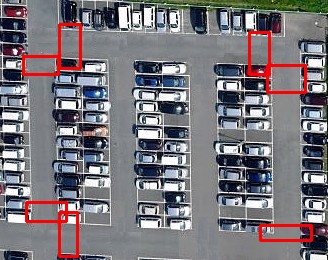
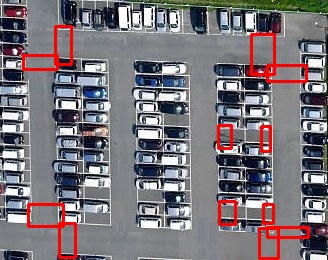
Added barriers for parking slots

diff --git a/core_lib/path_calculator.py b/core_lib/path_calculator.py
@@ -6,6 +6,20 @@ from parking import get_initial_coordinates_and_direction
 from core import get_config_value
 from core import save_config_value
 from core import Direction
+from drawing import draw_path
+
+def parking_slot_matcher(point):
+    if point[0] == 77:
+        if point[1] == 45:
+            return "p1"
+        else:
+            return "p3"
+    elif point[0] == 86:
+        if point[1] == 45:
+            return "p2"
+        else:
+            return "p4"
+    return None
 
 
 def adpat_configuration(config):
@@ -60,7 +74,7 @@ def get_neighbours(point, image, visited, config):
     return valid_neighbours
 
 
-def block_image(image, config):
+def block_image(image, config, slot_coords):
     """
     Fills with -1 the areas to be blocked. This is aimed to force the route 
     to follow a specific path. Receives the original image and returns a blocked one.
@@ -70,12 +84,18 @@ def block_image(image, config):
     Returns:
         np.array
     """
-    block = get_config_value("barriers")[config]
-    x_corner_1, y_corner_1 = block["corner_1"]
-    x_corner_2, y_corner_2 = block["corner_2"]
-    for i in range(y_corner_1, y_corner_2):
-        for j in range(x_corner_1, x_corner_2):
-            image[i][j] = -1
+    barriers = [config, "p1", "p2", "p3", "p4"]
+    special_slot = parking_slot_matcher(slot_coords)
+    if special_slot is not None:
+        barriers.remove(special_slot)
+    for barrier in barriers:
+        block = get_config_value("barriers")[barrier]
+        x_corner_1, y_corner_1 = block["corner_1"]
+        x_corner_2, y_corner_2 = block["corner_2"]
+        for i in range(y_corner_1, y_corner_2):
+            for j in range(x_corner_1, x_corner_2):
+                image[i][j] = -1
+
     return image
 
 def calculate_distances(initial_point, config):
@@ -93,7 +113,7 @@ def calculate_distances(initial_point, config):
     """
     # Get downsampled image.
     poles = get_parking_poles_structure()
-    poles = block_image(poles, config)
+    poles = block_image(poles, config, initial_point)
     # Create matrix of visited nodes.
     height = len(poles)
     width = len(poles[0])
@@ -191,7 +211,6 @@ def build_path():
 
     # Build matrix with distances
     distances = calculate_distances(parking_coords, config)
-    #write_csv(distances, "output.csv")
 
     # Create matrix of visited nodes.
     height = len(distances)
@@ -199,18 +218,57 @@ def build_path():
 
     visited = np.full((height, width), False)
     path = calculate_path((x_initial, y_initial), distances, config, visited)
+    write_csv(path, "output.csv")
+    draw_path(path)
     return path
 
 def test():
-    free_parking_spaces_scaled = get_config_value("free_parking_spaces_scaled")
-    quadrant = get_config_value("initial_quadrant")
-    direction = get_config_value("initial_direction")
-    for slot in free_parking_spaces_scaled:
-        save_config_value("initial_coordinates", slot["algorithm_center"])        
-        if len(build_path()) == 0:
-            print(f'Error using coordinates ({slot["algorithm_center"]})')
-        else:
-            print(f'Success for slot = {slot["algorithm_center"]}')
-    print(f'Success for quadrant = {Direction(quadrant).name}  direction = {Direction(direction).name}')
+    possible_confs = [
+        {
+            "quadrant": 5,
+            "direction": 2
+        },
+        {
+            "quadrant": 5,
+            "direction": 4
+        },
+        {
+            "quadrant": 6,
+            "direction": 2
+        },
+        {
+            "quadrant": 6,
+            "direction": 3
+        },
+        {
+            "quadrant": 7,
+            "direction": 1
+        },
+        {
+            "quadrant": 7,
+            "direction": 4
+        },
+        {
+            "quadrant": 8,
+            "direction": 1
+        },
+        {
+            "quadrant": 8,
+            "direction": 3
+        }
+    ]
+    for conf in possible_confs:
+        save_config_value("initial_quadrant", conf["quadrant"])
+        save_config_value("initial_direction", conf["direction"])
+        free_parking_spaces_scaled = get_config_value("free_parking_spaces_scaled")
+        quadrant = get_config_value("initial_quadrant")
+        direction = get_config_value("initial_direction")
+        for slot in free_parking_spaces_scaled:
+            save_config_value("initial_coordinates", slot["algorithm_center"])        
+            if len(build_path()) == 0:
+                print(f'Error using coordinates ({slot["algorithm_center"]})')
+            else:
+                print(f'Success for slot = {slot["algorithm_center"]}')
+            print(f'Success for quadrant = {Direction(quadrant).name}  direction = {Direction(direction).name}')
 
-test()
+build_path()

diff --git a/core_lib/drawing.py b/core_lib/drawing.py
@@ -7,7 +7,8 @@ import numpy as np
 import matplotlib.cm as cm
 import matplotlib.pyplot as plt
 
-from core_lib.core import Figure
+from core import Figure
+from core import get_config_value
 
 training_dataset = None
 
@@ -28,6 +29,28 @@ def draw_diameter(image, center, angle, radius):
     y_2 = int(y_center + (radius * math.sin(angle)))
 
     cv2.line(image, (x_1, y_1), (x_2, y_2), (0, 255, 0), 2)
+
+def get_scaling_factor():
+    """
+    Indicates by how much the parking poles structure was
+    scaled with respect to the original image.
+
+    Returns:
+        tuple --- the order is x_scale then y_scale
+    """
+
+    return get_config_value("x_scale"), get_config_value("y_scale")
+
+def draw_path(path):
+    base_image = cv2.imread("./media/parking_base.jpg")
+    x_scale, y_scale = get_scaling_factor()
+    for i in range(len(path) - 1):
+        x_1 = int(round(path[i][0] / x_scale))
+        x_2 = int(round(path[i+1][0] / x_scale))
+        y_1 = int(round(path[i][1] / y_scale))
+        y_2 = int(round(path[i+1][1] / y_scale))
+        cv2.line(base_image, (x_1, y_1), (x_2, y_2), (0, 255, 0), 2)
+    cv2.imwrite("./media/output_image.jpg", base_image)
 
 
 def draw_region_characteristics(image, characteristics):

diff --git a/core_lib/parking.py b/core_lib/parking.py
@@ -6,15 +6,15 @@ import statistics
 
 
 from os import path
-from core_lib.core import get_config_value
-from core_lib.core import read_training_params
-from core_lib.core import save_config_value
-from core_lib.core import Direction
-from core_lib.video_feed import VideoFeed
-from core_lib.seeds import get_seeds
-from core_lib.segmentation import region_expander
-from core_lib.drawing import draw_region_characteristics
-from core_lib.region_identifier import identify_region
+from core import get_config_value
+from core import read_training_params
+from core import save_config_value
+from core import Direction
+from video_feed import VideoFeed
+from seeds import get_seeds
+from segmentation import region_expander
+from drawing import draw_region_characteristics
+from region_identifier import identify_region
 
 
 def get_final_mapped_points(x, y):

diff --git a/core_lib/set_barriers.py b/core_lib/set_barriers.py
@@ -18,7 +18,11 @@ keys = [
     Direction.SOUTH_WEST.name + ">" + Direction.NORTH.name,
     Direction.SOUTH_WEST.name + ">" + Direction.EAST.name,
     Direction.SOUTH_EAST.name + ">" + Direction.NORTH.name,
-    Direction.SOUTH_EAST.name + ">" + Direction.WEST.name
+    Direction.SOUTH_EAST.name + ">" + Direction.WEST.name,
+    "p1",
+    "p2",
+    "p3",
+    "p4"
 ]
 
 # Blocks are represented as a rectangle.

diff --git a/core_lib/region_identifier.py b/core_lib/region_identifier.py
@@ -1,6 +1,6 @@
 import math
 import json
-from .core import Figure
+from core import Figure
 
 threshold = 0.7
 
